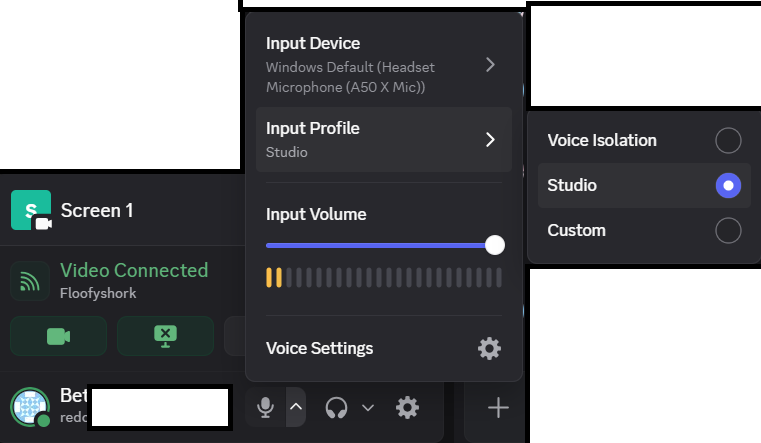
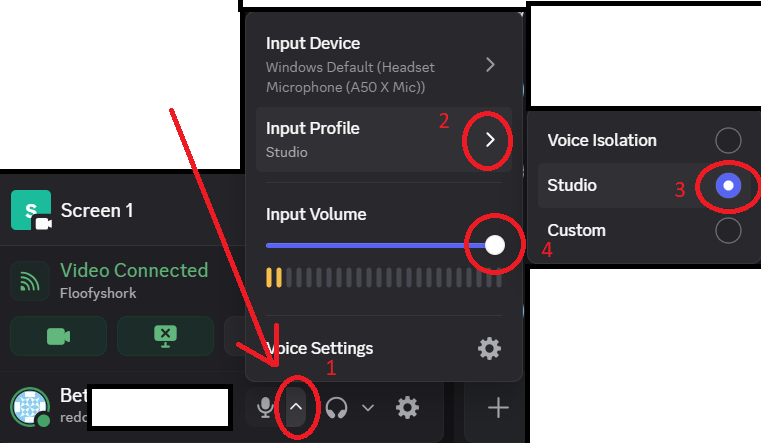
Voice things

diff --git a/voice/nasality.md b/voice/nasality.md
@@ -1,0 +1,21 @@
+# The Restless Night - a non-nasal text
+
+Look at the sky.
+The sky is dark, yet bright stars glow.
+I see the path forward.
+It is clear.
+Walk with care.
+Who is there?
+Speak up!
+It is quiet.
+Too quiet.
+I feel a chill.
+Cold air hits.
+I will stay.
+I will wait.
+Step back!
+Keep clear of the gate.
+It is locked.
+Take the key.
+Use it well.
+Trust the path.

diff --git a/voice/zero.md b/voice/zero.md
@@ -6,6 +6,7 @@ Early warning signs of a problem include:
 
 * **Pain**
 * Hoarseness
+* Irritation
 * Frequent Cough
 * Scratchy voice
 * Persistent lump in throat
@@ -23,4 +24,14 @@ Then, we'll have to take things more slowly and deliberately.
 
 If symptoms don't improve on a reasonable time scale, you might want to see a specialist.
 
+# Last Words
+
+Even if you overstep your limits and hit some irritation, all is not generally lost.
+A period of vocal rest is usually sufficient to let things heal.
+Take note of your limits and moderate your vocal activities accordingly.
+Yes, permanent damage is possible, but it is rare and tends to result from persistent disrespect for the signals your body sends you.
+
+
+Read [this article from UT Southwestern Medical Center](https://utswmed.org/medblog/vocal-cords-care/) for more about preventing,
+detecting, and treating vocal damage.
 

diff --git a/voice/constriction.md b/voice/constriction.md
@@ -1,0 +1,6 @@
+# Constriction
+
+Use vibrato to find something relaxed. Vibrato is the canary in the coal mine.
+
+Nice long drones shifting the vowel (or size, or both?) can be like *wax-on-wax-off.*
+

diff --git a/voice/fach.md b/voice/fach.md
@@ -1,0 +1,6 @@
+# What the Fach?
+
+
+
+Not a strange question at all. Buzzing in different parts of the body - typically the chest, neck, head, or face - can be a personal indicator that you're doing a new thing with some vocal parameter, but the buzzing is not *in itself* a goal or a useful interpersonal metric. Different people experience vocal change differently. There are terms in the wild - typically singing communities classically trained according to European operatic tradition - that use phrases like "chest-voice" and "head-voice". A significant minority of humans do experience *some* consistency in these effects, so that a vocabulary could develop around it, but trans-voice needs to work for *everyone,* not just those who fit neatly into the Fach system.
+

diff --git a/voice/pitch.md b/voice/pitch.md
@@ -1,0 +1,5 @@
+# Pitch
+
+People don't typically gender voices based on pitch, but pitch does help complete a picture and at the extremes it can address what's reachable in terms of the other parameters.
+
+

diff --git a/voice/resources.md b/voice/resources.md
@@ -42,6 +42,7 @@
 * https://youtu.be/9HgUU16PjKI - when you end the sentence you go "mmmmpphh"
 * https://youtu.be/iZjRXwWck74 - Doing SPOOKY Halloween Voices!
 * https://youtu.be/uKxd30lQ1f0 - How to learn English pronunciation with My Fair Lady (1964)
+* https://www.youtube.com/watch?v=iaAT6-dY1QI - Tea, Earl Grey, Hot.
 
 Low Fem stuff:
 
@@ -72,3 +73,6 @@ Low Fem stuff:
 * https://www.masteringbox.com/learn/what-are-harmonics-in-audio What Are Harmonics in Audio? Fundamental and Harmonic Frequencies Explained
 
 
+## Things to talk about
+
+* https://alphatoastmasters.au/members/table-topics-guidelines/table-topics-questions/

diff --git a/voice/index.md b/voice/index.md
@@ -12,6 +12,7 @@ If you're here, it's because you've expressed an interest in learning to change 
 
 Before we get started, and to make sure we get the most out of our time,
 I would ask that you read and understand each of the following brief articles.
+They'll only take a few minutes each.
 If you have any questions, feel free to ask for clarification via discord or e-mail.
 
 * [Rule Zero](./zero)
@@ -24,3 +25,4 @@ If you have any questions, feel free to ask for clarification via discord or e-m
 
 
 There is a password buried amongst the articles. I will ask you for it.
+If you don't find it, we'll spend part of session zero going back over these topics.